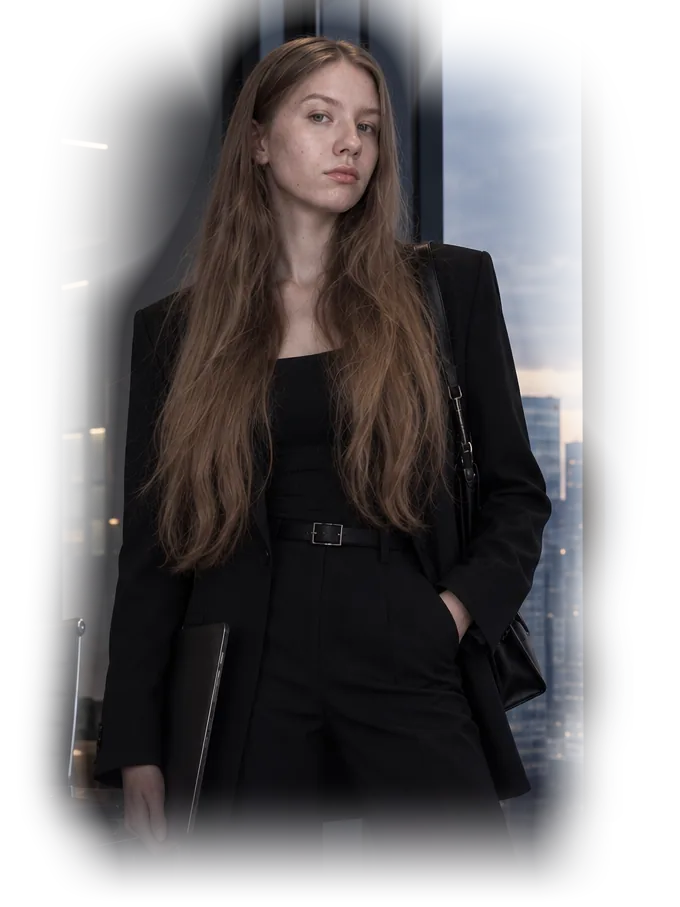
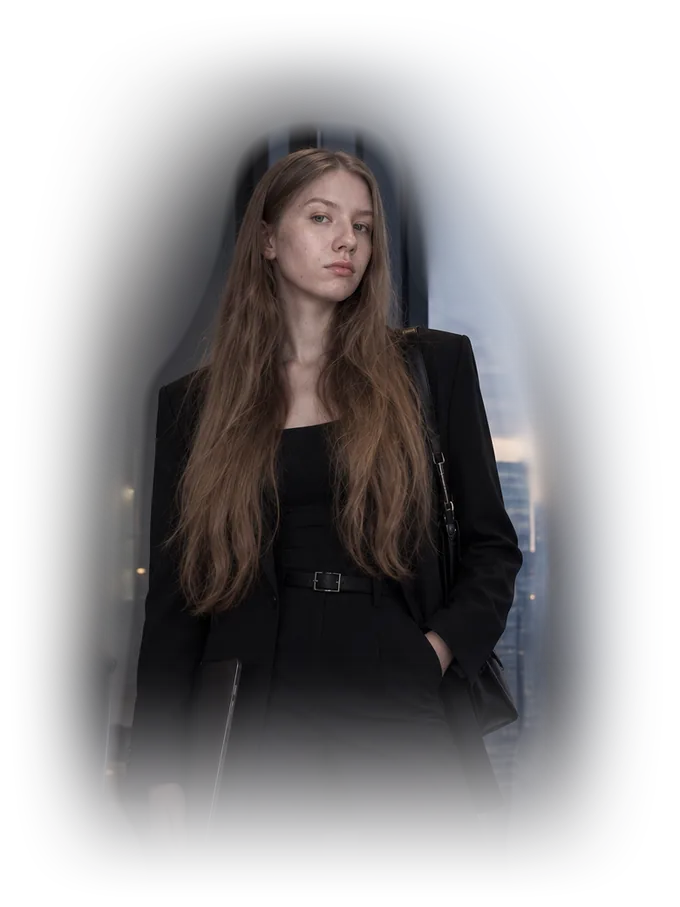
Нижнее фото крупнее и без краёв, на телефоне кнопки контактов справа

diff --git a/css/style.css b/css/style.css
@@ -343,7 +343,7 @@ main { overflow-x: clip; }
 .tegi li:nth-child(4n+4) { color: var(--roza); border-color: rgba(242, 169, 196, .45); }
 
 /* контакты: текст слева, второе фото справа, так же растворяется в темноте */
-.kontakty { display: grid; grid-template-columns: 1fr minmax(240px, 340px); gap: 60px; align-items: center; }
+.kontakty { display: grid; grid-template-columns: 1fr minmax(260px, min(560px, 40vw)); gap: 40px; align-items: center; }
 .kontakty h2 { font-size: clamp(54px, 8vw, 130px); margin: 14px 0 26px; }
 .foto--kontakty { position: relative; right: auto; top: auto; width: 100%; }
 .kontakty p { max-width: 620px; color: var(--tekst-tihiy); font-size: 16px; margin-bottom: 34px; }
@@ -468,9 +468,13 @@ code { font: 13px "JetBrains Mono", Consolas, monospace; background: rgba(243, 2
   .model { min-height: 440px; }
   .keysy .kartochka, .keysy .kartochka--shirokaya { grid-column: auto; }
   .kartochka h3 { font-size: 24px; }
-  .kontakty__spisok .knopka { flex: 1 1 100%; }
-  .kontakty { grid-template-columns: 1fr; gap: 10px; }
-  .foto--kontakty { width: 76%; max-width: 320px; margin: 30px auto 0; }
+  /* контакты на телефоне: Мария слева позади, кнопки справа поверх растаявшего офиса */
+  .kontakty { grid-template-columns: 44% 56%; gap: 0; }
+  .kontakty__tekst { display: contents; }
+  .kontakty__tekst > :not(.kontakty__spisok) { grid-column: 1 / -1; }
+  .foto--kontakty { grid-column: 1 / -1; grid-row: 4; width: 78%; max-width: 340px; margin: 0 0 0 -9%; z-index: 0; }
+  .kontakty__spisok { grid-column: 2; grid-row: 4; align-self: center; flex-direction: column; gap: 10px; position: relative; z-index: 1; }
+  .kontakty__spisok .knopka { flex: none; width: 100%; padding: 12px 10px; font-size: 14px; }
 
   .stranica { padding-top: 30px; }
   .itogi { grid-template-columns: 1fr 1fr; }

diff --git a/kejsy/bag-reporty.html b/kejsy/bag-reporty.html
@@ -14,7 +14,7 @@
 <meta name="theme-color" content="#0f0d12">
 <link rel="icon" href="../favicon.svg" type="image/svg+xml">
 <link rel="preload" href="../fonts/onest-cyrillic.woff2" as="font" type="font/woff2" crossorigin>
-<link rel="stylesheet" href="../css/style.css?v=57ea24b7">
+<link rel="stylesheet" href="../css/style.css?v=5d177cb4">
 <script>document.documentElement.classList.add('js')</script>
 <script src="../js/main.js?v=f1c7b7e9" defer></script>
 </head>

diff --git a/kejsy/dostupnost.html b/kejsy/dostupnost.html
@@ -14,7 +14,7 @@
 <meta name="theme-color" content="#0f0d12">
 <link rel="icon" href="../favicon.svg" type="image/svg+xml">
 <link rel="preload" href="../fonts/onest-cyrillic.woff2" as="font" type="font/woff2" crossorigin>
-<link rel="stylesheet" href="../css/style.css?v=57ea24b7">
+<link rel="stylesheet" href="../css/style.css?v=5d177cb4">
 <script>document.documentElement.classList.add('js')</script>
 <script src="../js/main.js?v=f1c7b7e9" defer></script>
 </head>

diff --git a/kejsy/seo-rezultaty.html b/kejsy/seo-rezultaty.html
@@ -14,7 +14,7 @@
 <meta name="theme-color" content="#0f0d12">
 <link rel="icon" href="../favicon.svg" type="image/svg+xml">
 <link rel="preload" href="../fonts/onest-cyrillic.woff2" as="font" type="font/woff2" crossorigin>
-<link rel="stylesheet" href="../css/style.css?v=57ea24b7">
+<link rel="stylesheet" href="../css/style.css?v=5d177cb4">
 <script>document.documentElement.classList.add('js')</script>
 <script src="../js/main.js?v=f1c7b7e9" defer></script>
 </head>

diff --git a/kejsy/sravnenie-servisov.html b/kejsy/sravnenie-servisov.html
@@ -14,7 +14,7 @@
 <meta name="theme-color" content="#0f0d12">
 <link rel="icon" href="../favicon.svg" type="image/svg+xml">
 <link rel="preload" href="../fonts/onest-cyrillic.woff2" as="font" type="font/woff2" crossorigin>
-<link rel="stylesheet" href="../css/style.css?v=57ea24b7">
+<link rel="stylesheet" href="../css/style.css?v=5d177cb4">
 <script>document.documentElement.classList.add('js')</script>
 <script src="../js/main.js?v=f1c7b7e9" defer></script>
 </head>

diff --git a/kejsy/testirovanie-formy.html b/kejsy/testirovanie-formy.html
@@ -14,7 +14,7 @@
 <meta name="theme-color" content="#0f0d12">
 <link rel="icon" href="../favicon.svg" type="image/svg+xml">
 <link rel="preload" href="../fonts/onest-cyrillic.woff2" as="font" type="font/woff2" crossorigin>
-<link rel="stylesheet" href="../css/style.css?v=57ea24b7">
+<link rel="stylesheet" href="../css/style.css?v=5d177cb4">
 <script>document.documentElement.classList.add('js')</script>
 <script src="../js/main.js?v=f1c7b7e9" defer></script>
 </head>

diff --git a/kejsy/ux-zapis-k-vrachu.html b/kejsy/ux-zapis-k-vrachu.html
@@ -14,7 +14,7 @@
 <meta name="theme-color" content="#0f0d12">
 <link rel="icon" href="../favicon.svg" type="image/svg+xml">
 <link rel="preload" href="../fonts/onest-cyrillic.woff2" as="font" type="font/woff2" crossorigin>
-<link rel="stylesheet" href="../css/style.css?v=57ea24b7">
+<link rel="stylesheet" href="../css/style.css?v=5d177cb4">
 <script>document.documentElement.classList.add('js')</script>
 <script src="../js/main.js?v=f1c7b7e9" defer></script>
 </head>

diff --git a/proekty/bag-reporter.html b/proekty/bag-reporter.html
@@ -14,7 +14,7 @@
 <meta name="theme-color" content="#0f0d12">
 <link rel="icon" href="../favicon.svg" type="image/svg+xml">
 <link rel="preload" href="../fonts/onest-cyrillic.woff2" as="font" type="font/woff2" crossorigin>
-<link rel="stylesheet" href="../css/style.css?v=57ea24b7">
+<link rel="stylesheet" href="../css/style.css?v=5d177cb4">
 <script>document.documentElement.classList.add('js')</script>
 <script src="../js/main.js?v=f1c7b7e9" defer></script>
 </head>

diff --git a/proekty/krauler.html b/proekty/krauler.html
@@ -14,7 +14,7 @@
 <meta name="theme-color" content="#0f0d12">
 <link rel="icon" href="../favicon.svg" type="image/svg+xml">
 <link rel="preload" href="../fonts/onest-cyrillic.woff2" as="font" type="font/woff2" crossorigin>
-<link rel="stylesheet" href="../css/style.css?v=57ea24b7">
+<link rel="stylesheet" href="../css/style.css?v=5d177cb4">
 <script>document.documentElement.classList.add('js')</script>
 <script src="../js/main.js?v=f1c7b7e9" defer></script>
 </head>

diff --git a/proekty/mini-fitnes.html b/proekty/mini-fitnes.html
@@ -14,7 +14,7 @@
 <meta name="theme-color" content="#0f0d12">
 <link rel="icon" href="../favicon.svg" type="image/svg+xml">
 <link rel="preload" href="../fonts/onest-cyrillic.woff2" as="font" type="font/woff2" crossorigin>
-<link rel="stylesheet" href="../css/style.css?v=57ea24b7">
+<link rel="stylesheet" href="../css/style.css?v=5d177cb4">
 <script>document.documentElement.classList.add('js')</script>
 <script src="../js/main.js?v=f1c7b7e9" defer></script>
 </head>

diff --git a/proekty/mini-kotyata.html b/proekty/mini-kotyata.html
@@ -14,7 +14,7 @@
 <meta name="theme-color" content="#0f0d12">
 <link rel="icon" href="../favicon.svg" type="image/svg+xml">
 <link rel="preload" href="../fonts/onest-cyrillic.woff2" as="font" type="font/woff2" crossorigin>
-<link rel="stylesheet" href="../css/style.css?v=57ea24b7">
+<link rel="stylesheet" href="../css/style.css?v=5d177cb4">
 <script>document.documentElement.classList.add('js')</script>
 <script src="../js/main.js?v=f1c7b7e9" defer></script>
 </head>

diff --git a/proekty/mini-kozha.html b/proekty/mini-kozha.html
@@ -14,7 +14,7 @@
 <meta name="theme-color" content="#0f0d12">
 <link rel="icon" href="../favicon.svg" type="image/svg+xml">
 <link rel="preload" href="../fonts/onest-cyrillic.woff2" as="font" type="font/woff2" crossorigin>
-<link rel="stylesheet" href="../css/style.css?v=57ea24b7">
+<link rel="stylesheet" href="../css/style.css?v=5d177cb4">
 <script>document.documentElement.classList.add('js')</script>
 <script src="../js/main.js?v=f1c7b7e9" defer></script>
 </head>
